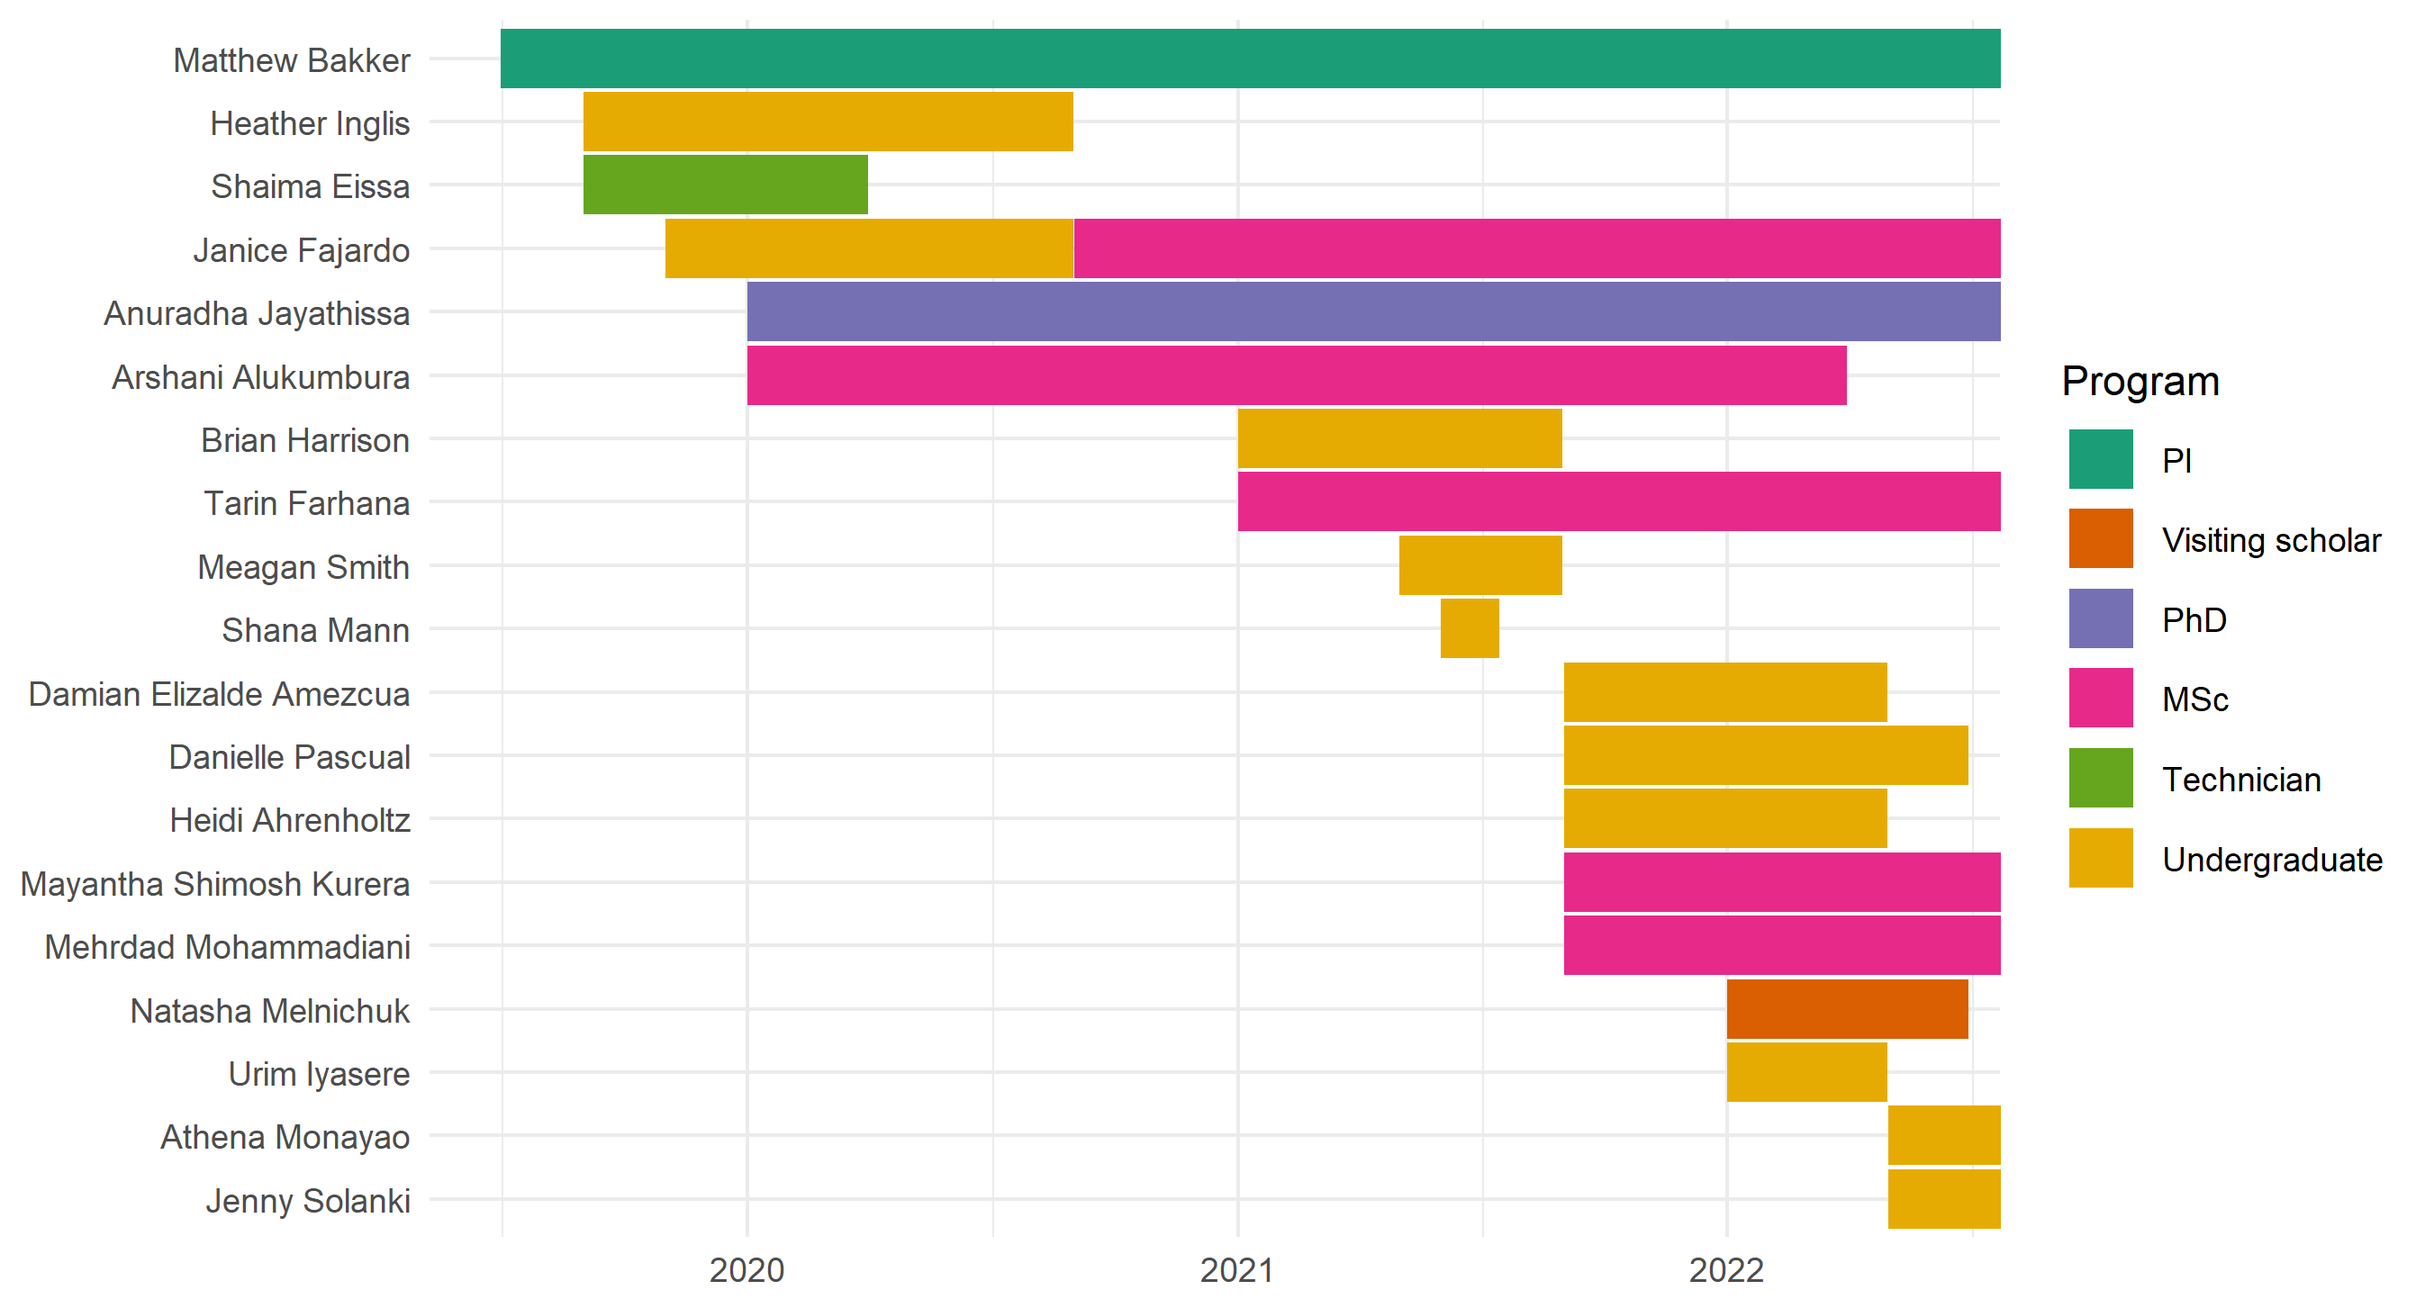
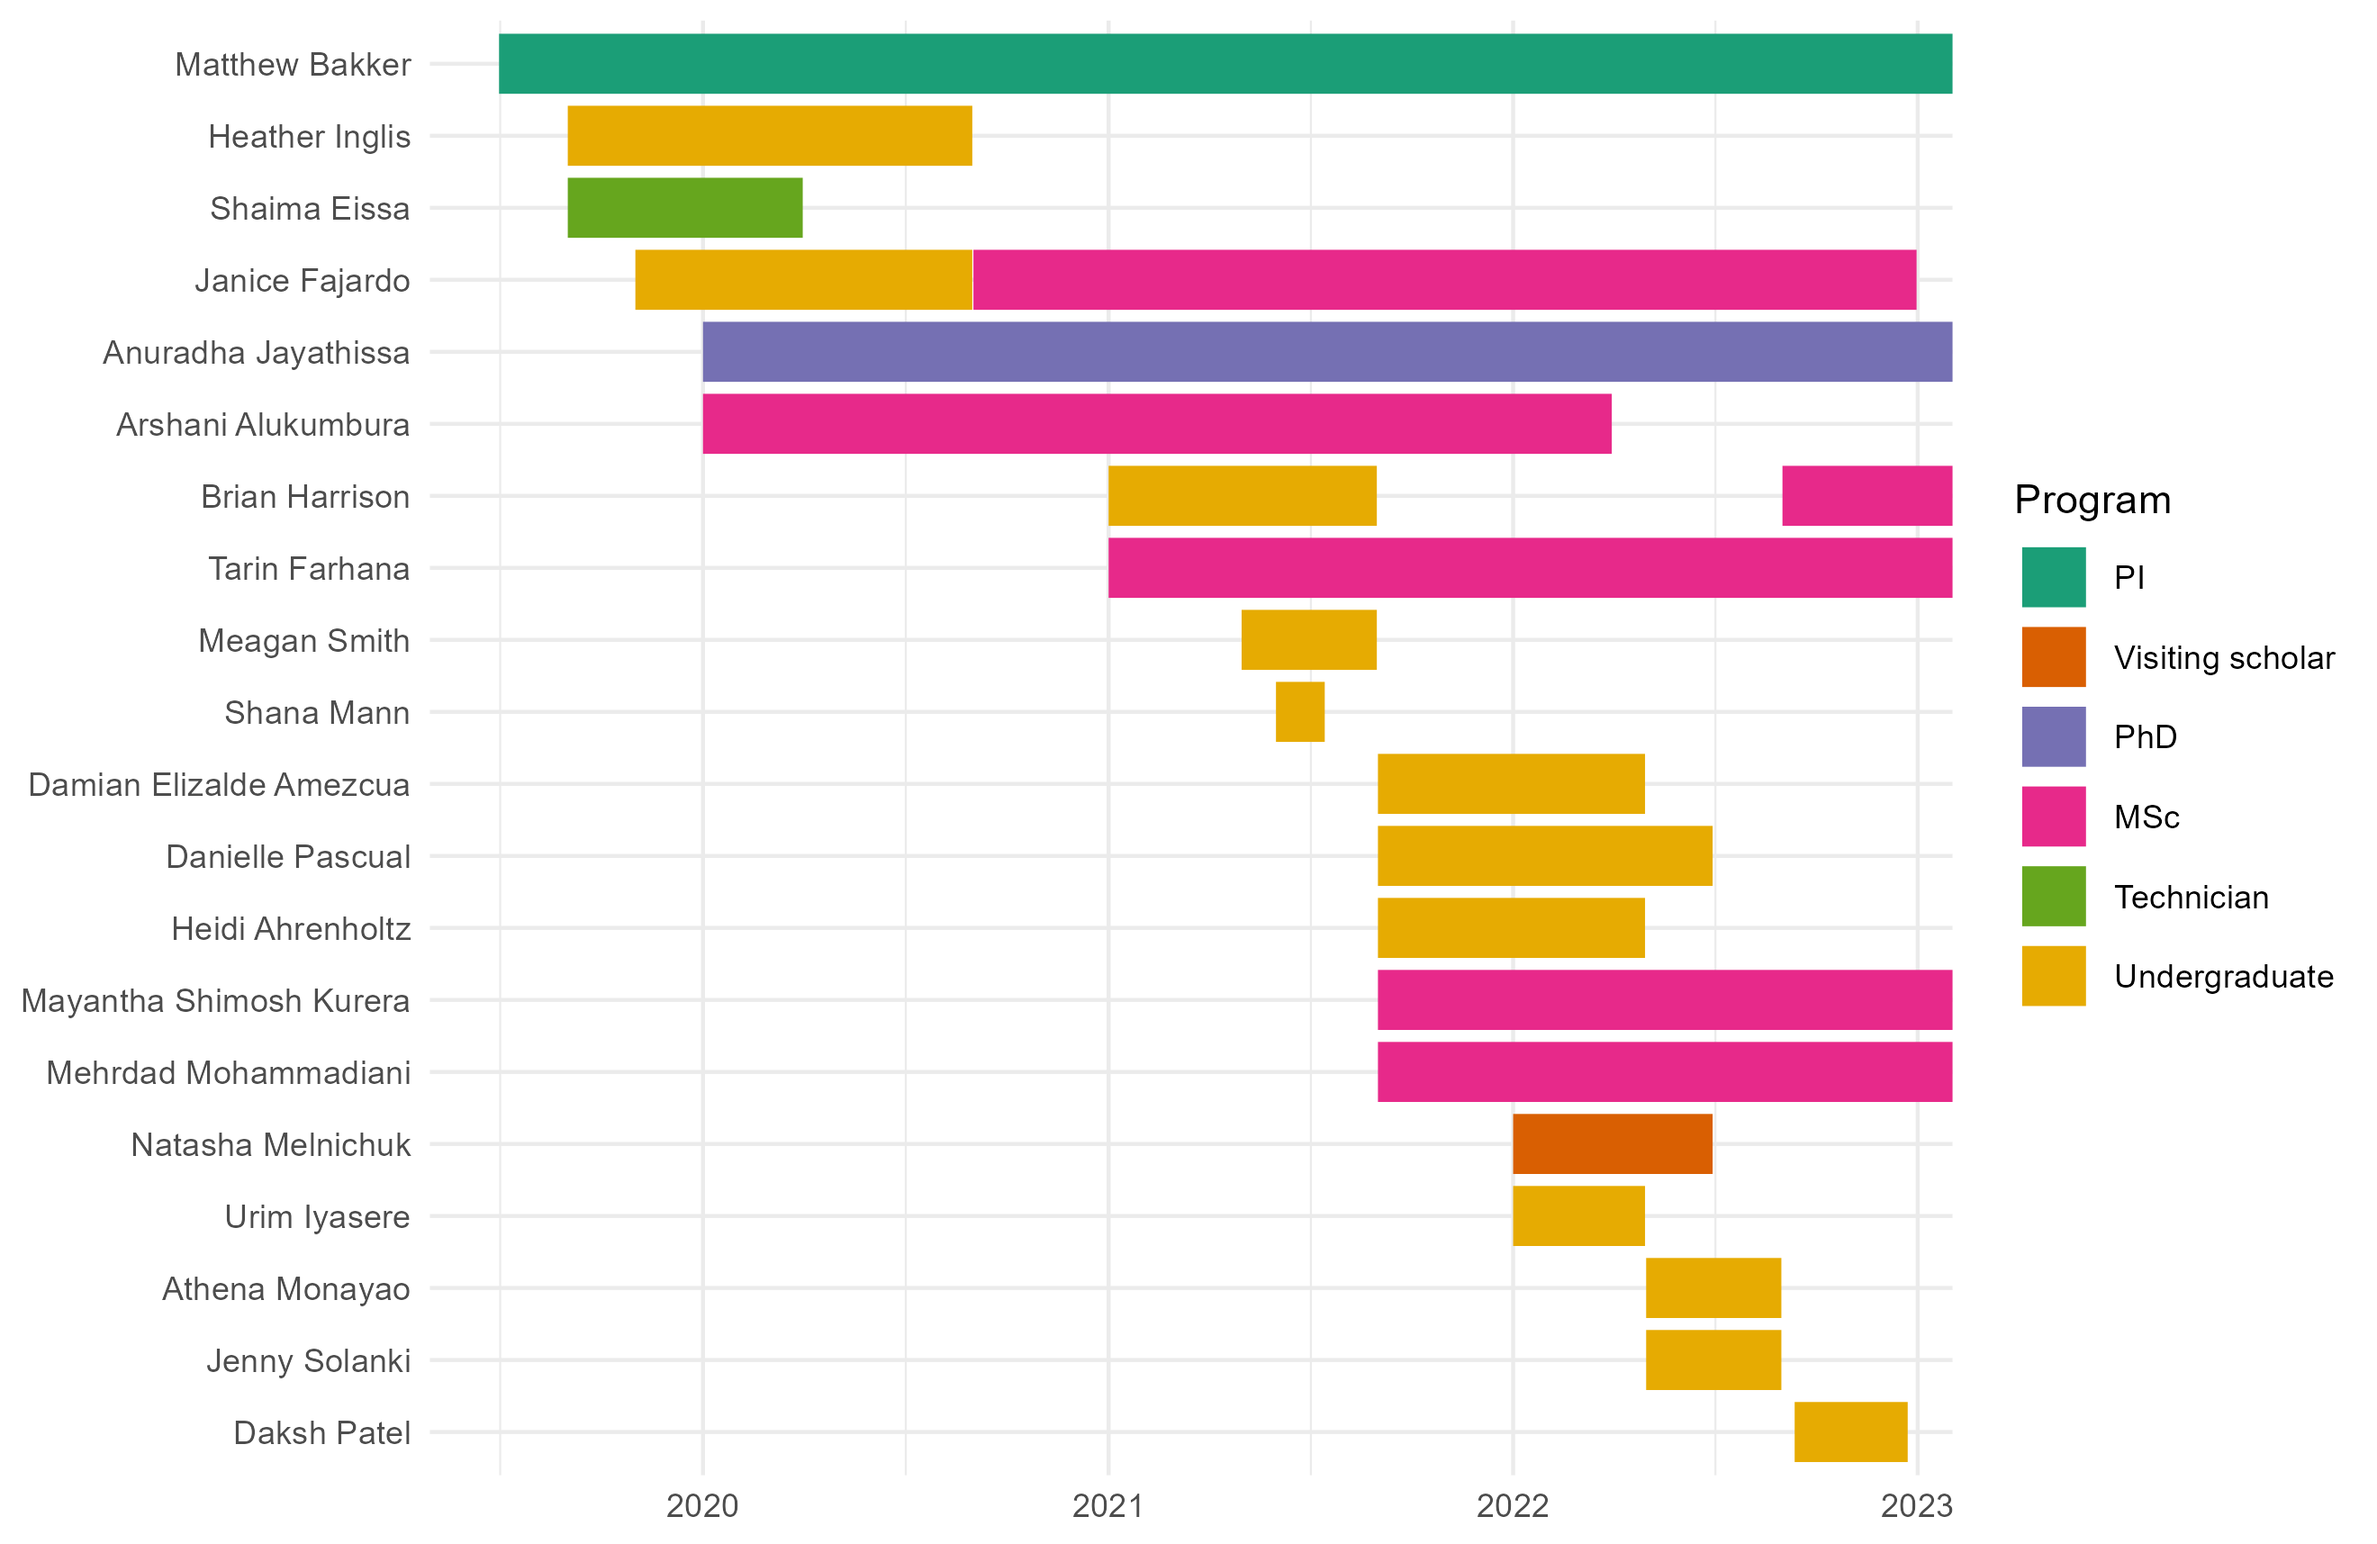
add Daksh

diff --git a/contact.html b/contact.html
@@ -13,7 +13,7 @@
 
 <title>Contact</title>
 
-<script src="site_libs/header-attrs-2.11/header-attrs.js"></script>
+<script src="site_libs/header-attrs-2.16/header-attrs.js"></script>
 <script src="site_libs/jquery-3.6.0/jquery-3.6.0.min.js"></script>
 <meta name="viewport" content="width=device-width, initial-scale=1" />
 <link href="site_libs/bootstrap-3.3.5/css/sandstone.min.css" rel="stylesheet" />
@@ -67,6 +67,7 @@ if (window.hljs) {
 
 
 
+
 <link rel="stylesheet" href="style.css" type="text/css" />
 
 
@@ -91,6 +92,9 @@ button.code-folding-btn:focus {
 }
 summary {
   display: list-item;
+}
+details > summary > p:only-child {
+  display: inline;
 }
 pre code {
   padding: 0;
@@ -148,11 +152,15 @@ $(document).ready(function () {
     href = "index.html";
   var menuAnchor = $('a[href="' + href + '"]');
 
-  // mark it active
-  menuAnchor.tab('show');
-
-  // if it's got a parent navbar menu mark it active as well
-  menuAnchor.closest('li.dropdown').addClass('active');
+  // mark the anchor link active (and if it's in a dropdown, also mark that active)
+  var dropdown = menuAnchor.closest('li.dropdown');
+  if (window.bootstrap) { // Bootstrap 4+
+    menuAnchor.addClass('active');
+    dropdown.find('> .dropdown-toggle').addClass('active');
+  } else { // Bootstrap 3
+    menuAnchor.parent().addClass('active');
+    dropdown.addClass('active');
+  }
 
   // Navbar adjustments
   var navHeight = $(".navbar").first().height() + 15;
@@ -243,7 +251,7 @@ $(document).ready(function () {
 <div class="navbar navbar-default  navbar-fixed-top" role="navigation">
   <div class="container">
     <div class="navbar-header">
-      <button type="button" class="navbar-toggle collapsed" data-toggle="collapse" data-target="#navbar">
+      <button type="button" class="navbar-toggle collapsed" data-toggle="collapse" data-bs-toggle="collapse" data-target="#navbar" data-bs-target="#navbar">
         <span class="icon-bar"></span>
         <span class="icon-bar"></span>
         <span class="icon-bar"></span>
@@ -310,17 +318,20 @@ $(document).ready(function () {
 </div>
 
 
-<p>You can reach me at <a href="mailto:Matthew.Bakker@umanitoba.ca">Matthew.Bakker@umanitoba.ca</a> or +1-204-451-6232.</p>
-<p>Office location: 414B Buller Building</p>
-<p>Lab location: 301 Buller Building</p>
-<a href="http://umanitoba.ca/maps/" target="_blank">campus map here</a>
+<p>You can reach me at <a
+href="mailto:Matthew.Bakker@umanitoba.ca">Matthew.Bakker@umanitoba.ca</a>
+or +1-204-451-6232.</p>
+301 Buller Building; <a href="http://umanitoba.ca/maps/"
+target="_blank">campus map here</a>
 <figure>
 <img src="media/Buller_pano.JPG" style="width:50%; border:3px solid; margin-right: 20px" align="right">
 </figure>
 <p>
 </br>
 </p>
-<p>Mailing address: </br> Department of Microbiology </br> 213 Buller Building </br> 45 Chancellor’s Circle </br> University of Manitoba </br> Winnipeg, MB R3T 2N2 </br> Canada</p>
+<p>Mailing address: </br> Department of Microbiology </br> 213 Buller
+Building </br> 45 Chancellor’s Circle </br> University of Manitoba </br>
+Winnipeg, MB R3T 2N2 </br> Canada</p>
 <p>
 </br>
 </p>

diff --git a/people.html b/people.html
@@ -318,7 +318,7 @@ $(document).ready(function () {
 </div>
 
 
-<p><img src="media/Bakker_profile.jpg" width="30%" style = "float:right; padding:10px" style="display: block; margin: auto 0 auto auto;" /></p>
+<p><img src="media/Bakker_Matthew.jpg" width="30%" style = "float:right; padding:10px" style="display: block; margin: auto 0 auto auto;" /></p>
 <div id="dr.-matthew-bakker" class="section level3">
 <h3>Dr. Matthew Bakker</h3>
 <p><em>Principal investigator.</em> <br> Matthew completed his PhD in
@@ -492,6 +492,26 @@ target="_blank">EvoFunPath training program</a>.</p>
 <p>
 </br>
 </p>
+<p>
+</br>
+</p>
+<p>
+</br>
+</p>
+<p>
+</br>
+</p>
+<p>
+</br>
+</p>
+<p><img src="media/Patel_Daksh.jpeg" width="30%" style = "float:right; padding:10px" style="display: block; margin: auto 0 auto auto;" /></p>
+</div>
+<div id="daksh-patel" class="section level3">
+<h3><a href="https://www.linkedin.com/in/daksh-patel-63b605225/"
+target="_blank">Daksh Patel</a></h3>
+<p><em>Co-op.</em><br />
+Daksh is supporting our scanning electron microscopy and investigating
+microscopic features of barley florets.</p>
 <p>
 </br>
 </p>
